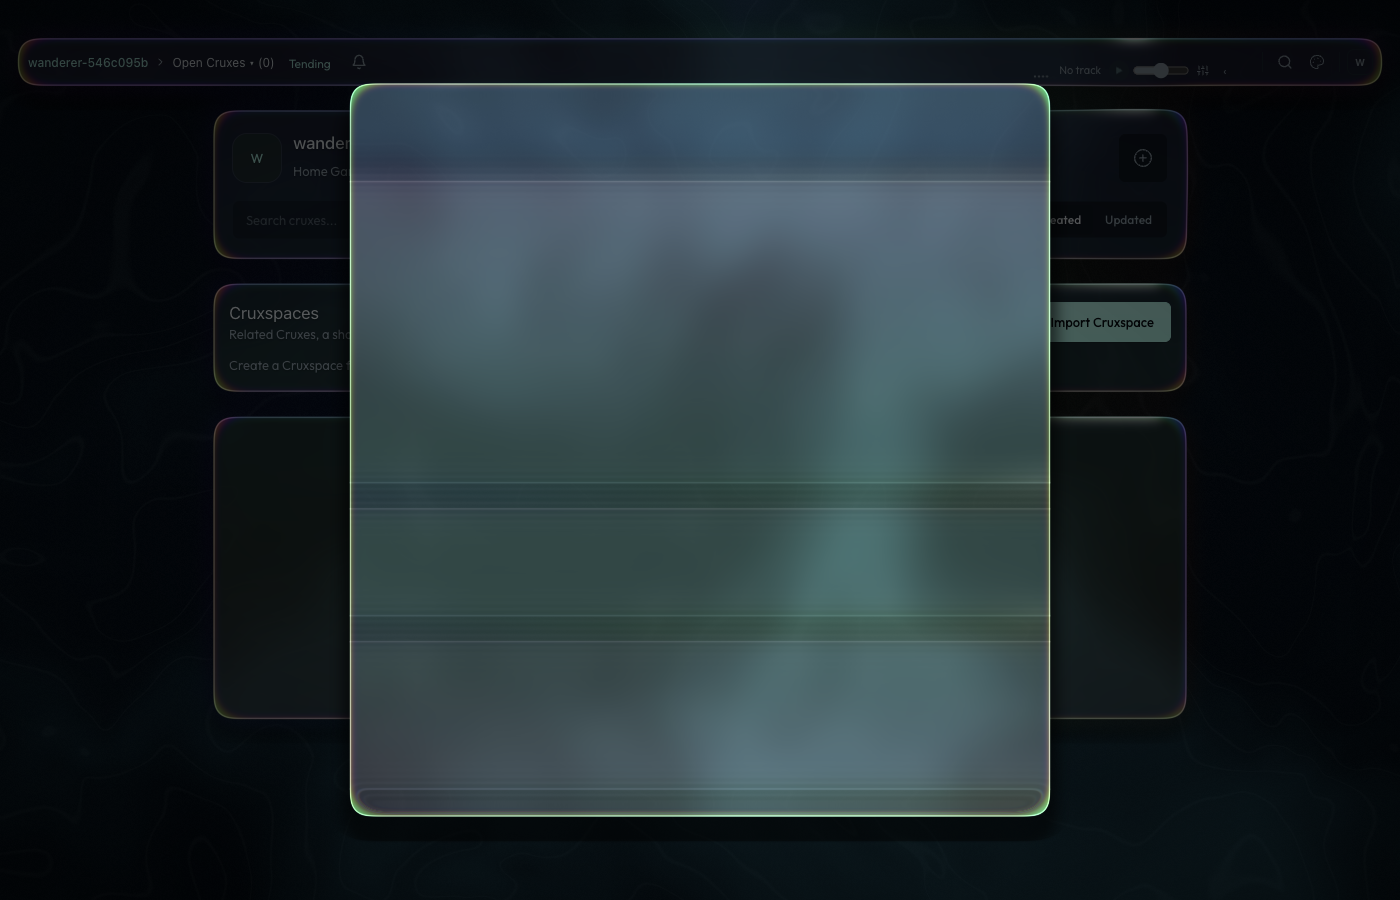
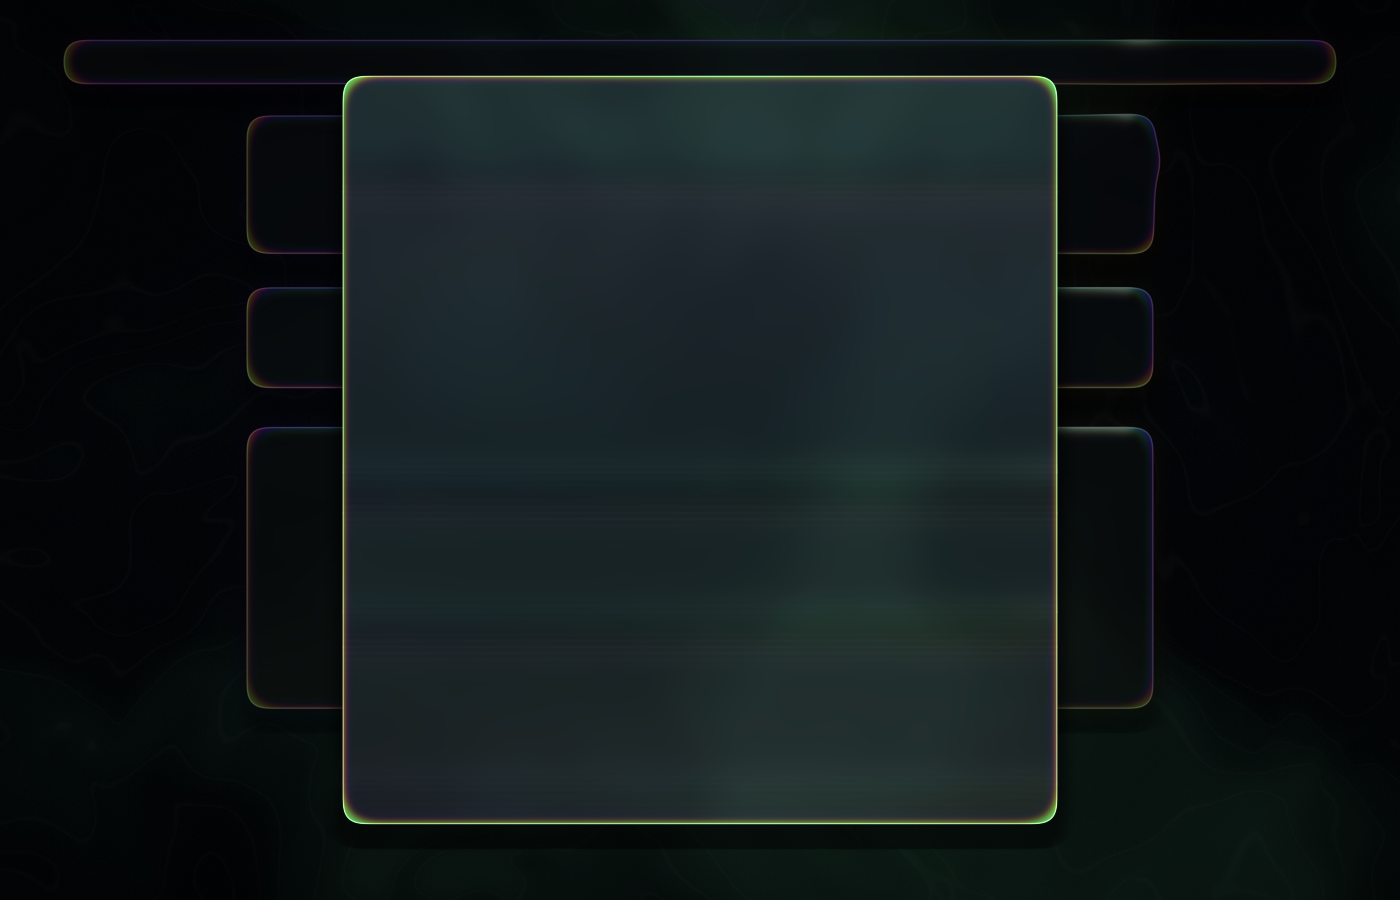
The Plasma Mood is the landing page: the material as Mood tokens, no plate, muted controls
plasmaField, plasmaTint, plasmaOpacity, plasmaFrost, plasmaRim,
plasmaRimWidth, plasmaElevation and plasmaInner join the optics tokens and
are read live by the ground and the dialog overlay; the tier's frost is a
cap. The Plasma preset carries the landing page's aurora field, tinted
frosted surfaces, a strong rim, a transparent plate with no frame, and the
teaser's muted buttons and dark input wells.

diff --git a/src/components/plasma/PlasmaStage.tsx b/src/components/plasma/PlasmaStage.tsx
@@ -1,9 +1,10 @@
-import { useEffect, useState, type ReactNode } from 'react';
+import type { ReactNode } from 'react';
 import { PlasmaCanvas, PlasmaProvider } from '@cruxgarden/plasma-ui';
 import { usePlasmaOn } from './usePlasmaOn';
 import { usePlasmaTier } from './usePlasmaTier';
 import { PLASMA_TIERS } from './tiers';
 import { GROUND_CLASS } from './ground';
+import { usePlasmaOptics } from './usePlasmaOptics';
 
 /**
  * The Plasma theme's material: one WebGL canvas behind the whole app.
@@ -22,38 +23,27 @@ import { GROUND_CLASS } from './ground';
  * render loop and a resize listener, and none of that should exist under
  * Glass or Custom. Surfaces attach themselves through PlasmaSurfaces.
  */
-/** A numeric Mood token off <html>, live as the Mood changes. */
-function readOptics() {
-  const cs = getComputedStyle(document.documentElement);
-  const num = (name: string, fallback: number) => {
-    const v = parseFloat(cs.getPropertyValue(name));
-    return Number.isFinite(v) ? Math.max(0, Math.min(3, v)) : fallback;
-  };
-  return { refraction: num('--plasma-refraction', 1), dispersion: num('--plasma-dispersion', 1) };
-}
-function usePlasmaOptics() {
-  const [optics, setOptics] = useState(readOptics);
-  useEffect(() => {
-    const update = () => setOptics(readOptics());
-    update();
-    document.addEventListener('palette-change', update);
-    return () => document.removeEventListener('palette-change', update);
-  }, []);
-  return optics;
-}
-
 export default function PlasmaStage({ children }: { children: ReactNode }) {
   const on = usePlasmaOn();
   const tier = usePlasmaTier();
   const optics = usePlasmaOptics();
   if (!on) return <>{children}</>;
+  const t = PLASMA_TIERS[tier];
   return (
     <PlasmaProvider
       theme="dark"
-      mood="tidal"
-      {...PLASMA_TIERS[tier]}
-      // The Mood's optics: refraction, and dispersion — the chromatic
-      // aberration in the bend, the Mood's `plasmaDispersion` token.
+      {...t}
+      // The Mood's material: the field it paints, the tint and body of every
+      // surface, the rim, how high they float — and the optics: refraction,
+      // and dispersion, the chromatic aberration in the bend. Frost is the
+      // Mood's too, capped by the tier (a weak GPU turns the blur chains off).
+      mood={{ colors: optics.colors, blend: 20, spring: { stiffness: 170, damping: 16 } }}
+      tint={optics.tint}
+      opacity={optics.opacity}
+      frost={Math.min(optics.frost, t.frost ?? 1)}
+      rim={optics.rim}
+      rimWidth={optics.rimWidth}
+      elevation={optics.elevation}
       refraction={optics.refraction}
       dispersion={optics.dispersion}
       // Surfaces would fuse below blend/2 = 10px, and the Plasma Mood's

diff --git a/src/lib/moods/presets.ts b/src/lib/moods/presets.ts
@@ -241,8 +241,44 @@ export const MOOD_PRESETS: MoodPresetDef[] = [
       border: '#1d2c39',
       text: '#e8f2f6',
       textMuted: '#93a7b3',
-      // A little more fringe than the library default: the material is the Mood.
-      plasmaDispersion: '1.5',
+      // The landing page's material (pages/Landing.tsx): the aurora field,
+      // every surface tinted the panel colour and half solid, frosted, a
+      // strong iridescent rim, a longer bend with more fringe, floating a
+      // little higher. With the tint doing the panel's work there is no
+      // plate inside a pane and no frame around one: the material is the pane.
+      plasmaField: '#050b12 #0f5e46 #b04bd6',
+      plasmaTint: '#061016',
+      plasmaOpacity: '0.55',
+      plasmaFrost: '0.5',
+      plasmaRim: '1.3',
+      plasmaRimWidth: '1.4',
+      plasmaRefraction: '1.4',
+      plasmaDispersion: '2.2',
+      plasmaElevation: '0.5',
+      plasmaPlate: 'transparent',
+      plasmaFrame: '0px',
+      plasmaInner: 'rgb(0 0 0 / 0.22)',
+      // The landing page's controls: one muted register for every control —
+      // a translucent accent wash for the primary button, a fainter one for
+      // the rest, light text on both, hairline light borders, and a field
+      // that is a darker well in the same material rather than a solid box.
+      primaryButton: 'rgb(159 243 228 / 0.16)',
+      primaryButtonHover: 'rgb(159 243 228 / 0.28)',
+      primaryButtonText: '#eef4f6',
+      primaryButtonBorder: 'rgb(238 244 246 / 0.22)',
+      primaryButtonBorderHover: 'rgb(238 244 246 / 0.32)',
+      actionButton: 'rgb(238 244 246 / 0.06)',
+      actionButtonHover: 'rgb(159 243 228 / 0.16)',
+      actionButtonText: '#d5e2e6',
+      actionButtonTextHover: '#eef4f6',
+      actionButtonBorder: 'rgb(238 244 246 / 0.16)',
+      actionButtonBorderHover: 'rgb(238 244 246 / 0.28)',
+      input: 'rgb(0 0 0 / 0.22)',
+      inputBorder: 'rgb(238 244 246 / 0.22)',
+      inputBorderActive: 'rgb(238 244 246 / 0.45)',
+      inputOutline: 'rgb(159 243 228 / 0.22)',
+      buttonDisabled: 'rgb(238 244 246 / 0.06)',
+      buttonDisabledText: 'rgb(238 244 246 / 0.4)',
       paneCollaboration: '#8fd6c4',
       paneArtifacts: '#c8ba9d',
       paneWorkshop: '#c5c89d',

diff --git a/src/components/plasma/PlasmaOverlay.tsx b/src/components/plasma/PlasmaOverlay.tsx
@@ -9,6 +9,7 @@ import { plasmaGround } from './ground';
 import { usePlasmaOn } from './usePlasmaOn';
 import { usePlasmaTier } from './usePlasmaTier';
 import { PLASMA_TIERS } from './tiers';
+import { usePlasmaOptics } from './usePlasmaOptics';
 
 /**
  * The material above the scrim.
@@ -38,6 +39,7 @@ export default function PlasmaOverlay({
 }) {
   const on = usePlasmaOn();
   const tier = usePlasmaTier();
+  const optics = usePlasmaOptics();
   const [ground, setGround] = useState<HTMLCanvasElement | null>(plasmaGround);
   useEffect(() => {
     if (!on) return;
@@ -53,19 +55,27 @@ export default function PlasmaOverlay({
   return (
     <PlasmaProvider
       theme="dark"
-      mood="tidal"
+      // The same material as the ground — the Mood's tint, frost, rim and
+      // optics — so a dialog reads as one of the panes, only higher.
+      mood={{ colors: optics.colors, blend: 20, spring: { stiffness: 170, damping: 16 } }}
+      tint={optics.tint}
+      opacity={optics.opacity}
+      frost={Math.min(optics.frost, t.frost ?? 1)}
+      rim={optics.rim}
+      rimWidth={optics.rimWidth}
+      refraction={optics.refraction}
+      dispersion={optics.dispersion}
       ground="clear"
       background={ground}
       canvas={false}
       quality={Math.min(t.quality ?? 1.25, 1.25)}
-      frost={t.frost}
       pointerDrop={false}
       ambientDrops={false}
       flow={0}
       stretch={0}
       grain={0}
       glow={0}
-      elevation={0.7}
+      elevation={Math.min(1, optics.elevation + 0.3)}
       blend={20}
       maxSurfaces={2}
     >
@@ -95,7 +105,7 @@ function OverlaySurface({
     // off this); it comes back if the material cannot draw here.
     const host = el.closest<HTMLElement>('[data-modal-open]');
     host?.setAttribute('data-plasma-overlay', '');
-    const handle = renderer.register(el, { radius, lean: 0, fuse: false, elevation: 0.7 });
+    const handle = renderer.register(el, { radius, lean: 0, fuse: false });
     return () => {
       handle.remove();
       host?.removeAttribute('data-plasma-overlay');

diff --git a/src/components/plasma/usePlasmaOptics.ts b/src/components/plasma/usePlasmaOptics.ts
@@ -1,0 +1,45 @@
+import { useEffect, useState } from 'react';
+
+/** The material's Mood tokens off <html>, live as the Mood changes. */
+function readOptics() {
+  const cs = getComputedStyle(document.documentElement);
+  const num = (name: string, fallback: number, max = 3) => {
+    const v = parseFloat(cs.getPropertyValue(name));
+    return Number.isFinite(v) ? Math.max(0, Math.min(max, v)) : fallback;
+  };
+  const hex = (name: string, fallback: string) => {
+    const v = cs.getPropertyValue(name).trim();
+    return /^#[0-9a-f]{3,8}$/i.test(v) ? v : fallback;
+  };
+  // Three hex colours — deep, mid, accent — the field is painted from.
+  const field = cs
+    .getPropertyValue('--plasma-field')
+    .trim()
+    .split(/\s+/)
+    .filter((c) => /^#[0-9a-f]{6}$/i.test(c));
+  return {
+    refraction: num('--plasma-refraction', 1),
+    dispersion: num('--plasma-dispersion', 1),
+    colors: (field.length === 3 ? field : ['#04111c', '#0f4c5c', '#6a5acd']) as [
+      string,
+      string,
+      string,
+    ],
+    tint: hex('--plasma-tint', '#ffffff'),
+    opacity: num('--plasma-opacity', 0, 1),
+    frost: num('--plasma-frost', 0.35, 1),
+    rim: num('--plasma-rim', 1),
+    rimWidth: num('--plasma-rim-width', 1),
+    elevation: num('--plasma-elevation', 0.35, 1),
+  };
+}
+export function usePlasmaOptics() {
+  const [optics, setOptics] = useState(readOptics);
+  useEffect(() => {
+    const update = () => setOptics(readOptics());
+    update();
+    document.addEventListener('palette-change', update);
+    return () => document.removeEventListener('palette-change', update);
+  }, []);
+  return optics;
+}

diff --git a/src/lib/moods/garden-dark.ts b/src/lib/moods/garden-dark.ts
@@ -362,12 +362,28 @@ export const GARDEN_DARK = {
   // person's to set, in the Mood Builder.
   plasmaFrame: '10px',
   plasmaPlate: 'color-mix(in srgb, var(--surface) 82%, transparent)',
+  // What sits inside a pane under Plasma — inputs, inner panels, wells — a
+  // flat shade with no second material. A Mood whose tint does the panel's
+  // work (the Plasma Mood) makes it a translucent dark instead.
+  plasmaInner: 'color-mix(in srgb, var(--surface) 88%, transparent)',
   // The material's optics (plasma-ui props): how far the field bends behind
   // a pane, and how far the red and blue of that bend split — chromatic
   // aberration, the fringe a real lens leaves. 1 is the library's default;
   // 0 is none; 3 is a prism.
   plasmaRefraction: '1',
   plasmaDispersion: '1',
+  // The material itself (plasma-ui provider props), so a Mood can carry the
+  // look the landing page has: the field's three colours (deep, mid, accent),
+  // the tint every surface carries and how solid it is, how frosted the
+  // material is (the quality tier caps this), the rim's strength and width,
+  // and how high the surfaces float. Defaults are the library's.
+  plasmaField: '#04111c #0f4c5c #6a5acd',
+  plasmaTint: '#ffffff',
+  plasmaOpacity: '0',
+  plasmaFrost: '0.35',
+  plasmaRim: '1',
+  plasmaRimWidth: '1',
+  plasmaElevation: '0.35',
   paneRadius: 'var(--radius)',
   paneBorderWidth: '1px',
   paneHeaderHeight: '28px',

diff --git a/src/components/plasma/tiers.ts b/src/components/plasma/tiers.ts
@@ -21,7 +21,9 @@ import type { PlasmaProviderProps } from '@cruxgarden/plasma-ui';
  *
  * The rest are effects that each cost a pass or a chunk of one — the blur
  * chains behind `frost`, the extra geometry behind `ambientDrops`, the
- * per-frame displacement behind `flow`.
+ * per-frame displacement behind `flow`. `frost` here is a cap on the Mood's
+ * own `plasmaFrost` token, not the value: the Mood says how milky the
+ * material is, the tier says how much of that this machine can afford.
  *
  * The renderer also clamps itself at 2.6 megapixels however high quality goes,
  * so the worst case is bounded: a 4K display does not cost 4K of plasma.
@@ -35,10 +37,10 @@ export const PLASMA_TIERS: Record<PlasmaTier, Partial<PlasmaProviderProps>> = {
   low: { quality: 0.7, frost: 0, pointerDrop: false, ambientDrops: false, flow: 0, stretch: 0.5 },
   medium: { quality: 1, frost: 0.2, pointerDrop: true, ambientDrops: false, flow: 0, stretch: 1 },
   // The default, and what the workspace example looks like.
-  high: { quality: 1.25, frost: 0.35, pointerDrop: true, ambientDrops: false, flow: 0, stretch: 1 },
+  high: { quality: 1.25, frost: 0.6, pointerDrop: true, ambientDrops: false, flow: 0, stretch: 1 },
   ultra: {
     quality: 1.75,
-    frost: 0.45,
+    frost: 1,
     pointerDrop: true,
     ambientDrops: true,
     flow: 0.4,

diff --git a/src/lib/moods/token-groups.ts b/src/lib/moods/token-groups.ts
@@ -96,8 +96,16 @@ const LAYOUT_KEYS = new Set([
   'paneGap',
   'plasmaFrame',
   'plasmaPlate',
+  'plasmaInner',
   'plasmaRefraction',
   'plasmaDispersion',
+  'plasmaField',
+  'plasmaTint',
+  'plasmaOpacity',
+  'plasmaFrost',
+  'plasmaRim',
+  'plasmaRimWidth',
+  'plasmaElevation',
   'paneRadius',
   'paneBorderWidth',
   'paneHeaderHeight',
@@ -393,8 +401,14 @@ export function tokenKind(key: string): TokenKind {
   // ── motion ── easings are curves (text), durations are <time> lengths, bindings 0..1 numbers
   if (/^motionEase|^motionSpring/.test(key)) return 'text';
   if (/^glass(Opacity|Saturation)$/.test(key)) return 'text';
-  if (key === 'glassRefraction' || key === 'plasmaRefraction' || key === 'plasmaDispersion')
+  if (
+    /^(glassRefraction|plasmaRefraction|plasmaDispersion|plasmaOpacity|plasmaFrost|plasmaRim|plasmaRimWidth|plasmaElevation)$/.test(
+      key,
+    )
+  )
     return 'number';
+  if (key === 'plasmaField') return 'text';
+  if (/^plasma(Tint|Plate|Inner)$/.test(key)) return 'color';
   if (/^motionDuration/.test(key)) return 'length';
   if (/^react/.test(key)) return 'number';
   if (/Texture$/.test(key) || FONT_ASSET_KEYS.has(key)) return 'asset';

diff --git a/electron/e2e/plasma-modal-shot.spec.ts b/electron/e2e/plasma-modal-shot.spec.ts
@@ -1,6 +1,6 @@
 import { test } from '@playwright/test';
 import { launchApp } from './launch';
-import { enterGarden } from './multi-crux-helpers';
+import { createCrux, enterGarden } from './multi-crux-helpers';
 
 /**
  * Evidence, not a gate: a dialog under the Plasma theme, drawn by its own
@@ -20,9 +20,15 @@ test('plasma modal shot', async () => {
     await page.waitForTimeout(1500);
     await page.screenshot({ path: `${SHOTS}/plasma-modal-add-crux.png` });
     await page.keyboard.press('Escape');
+    await page.waitForTimeout(800);
+    await page.screenshot({ path: `${SHOTS}/plasma-home.png` });
     await page.keyboard.press('ControlOrMeta+,');
     await page.waitForTimeout(1500);
     await page.screenshot({ path: `${SHOTS}/plasma-modal-settings.png` });
+    await page.keyboard.press('Escape');
+    await createCrux(page, 'Material');
+    await page.waitForTimeout(1500);
+    await page.screenshot({ path: `${SHOTS}/plasma-builder.png` });
   } finally {
     await app.close();
   }

diff --git a/src/styles/plasma.css b/src/styles/plasma.css
@@ -11,11 +11,7 @@
    Nothing here applies while data-surface-style is solid or glass. ── */
 
 html[data-surface-style='plasma'] {
-  /* The material supplies the page's ground; the body colour would sit over
-     the canvas and hide it. */
-  --plasma-inner: color-mix(in srgb, var(--surface) 88%, transparent);
-
-  /* --plasma-frame and --plasma-plate are Mood tokens (see garden-dark.ts):
+  /* --plasma-inner, --plasma-frame and --plasma-plate are Mood tokens (see garden-dark.ts):
      a pane is a frame of material with a plate inside it, the way the
      plasma-ui workspace example builds one, and how much of each is the
      person's call. They are never absent — the Mood pipeline writes every
